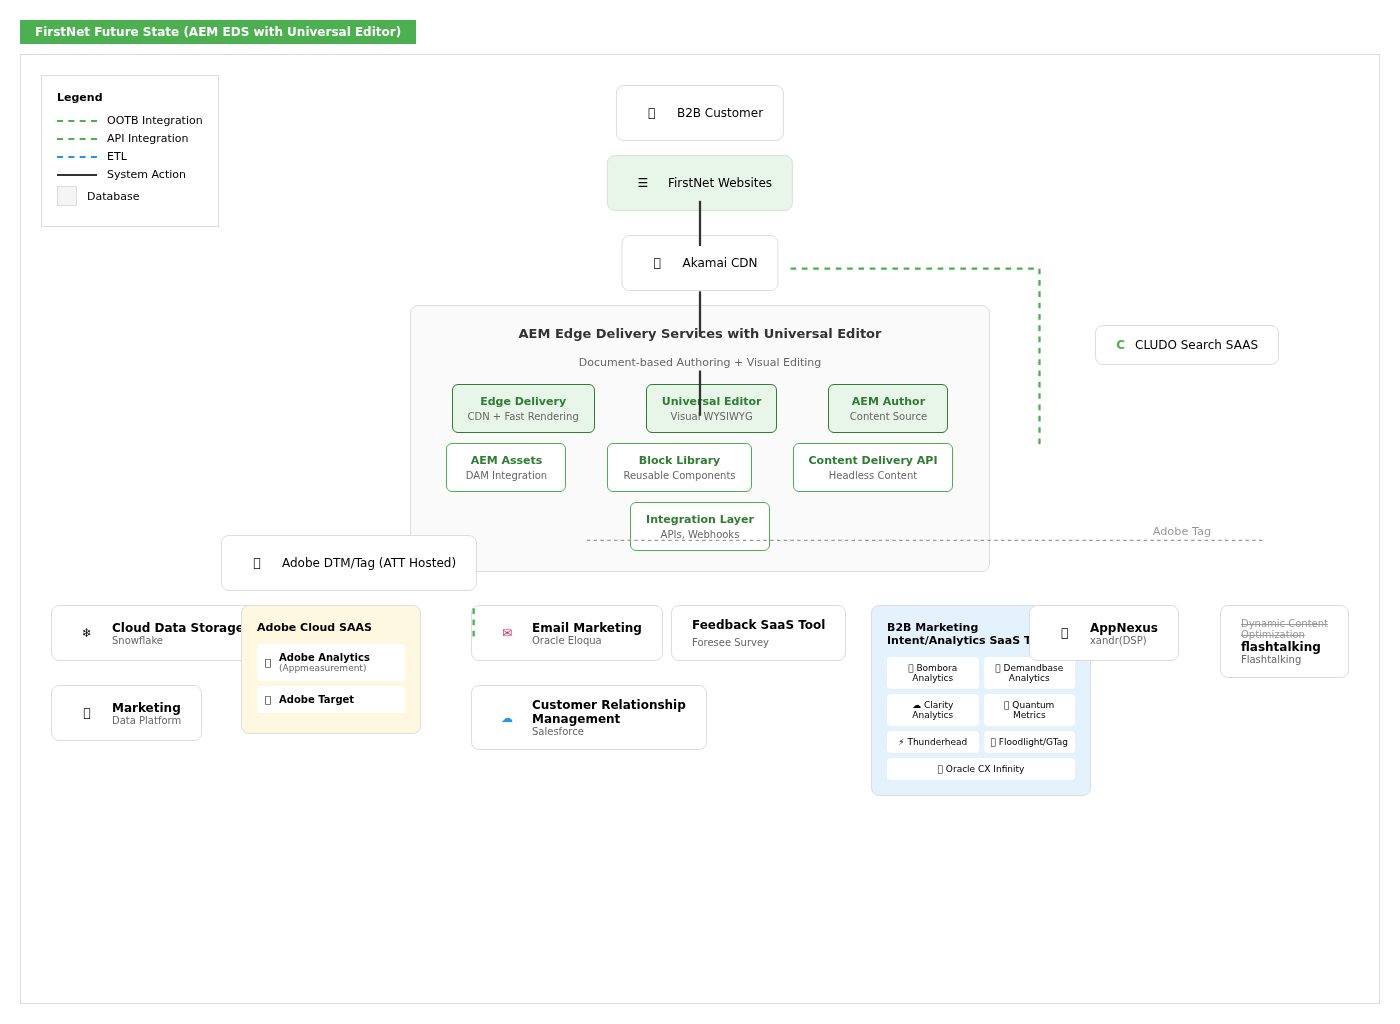
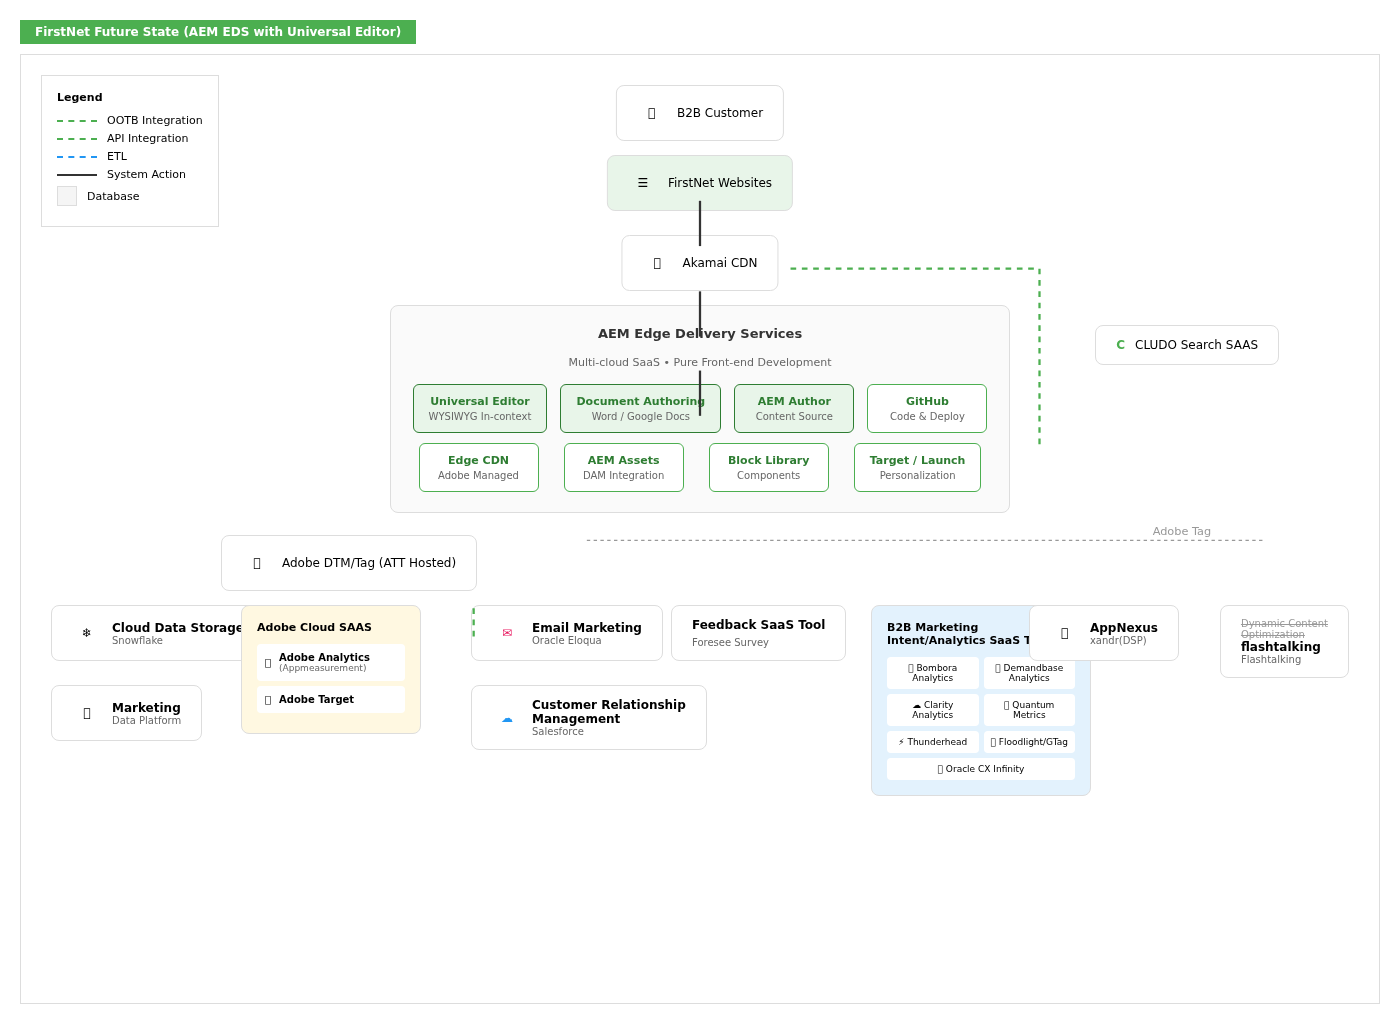
Refine EDS architecture based on Adobe documentation
Updated components per experienceleague.adobe.com/edge-delivery/overview:
- Universal Editor (WYSIWYG In-context)
- Document Authoring (Word/Google Docs)
- AEM Author (Content Source)
- GitHub (Code & Deploy)
- Edge CDN (Adobe Managed)
- AEM Assets (DAM Integration)
- Block Library (Components)
- Target/Launch (Personalization)

Subtitle: Multi-cloud SaaS • Pure Front-end Development

🤖 Generated with [Claude Code](https://claude.com/claude-code)

Changed region(s): [[0.3071, 0.3125, 0.7064, 0.4688], [0.4607, 0.5, 0.5529, 0.5312]]

diff --git a/firstnet-future-state-architecture.html b/firstnet-future-state-architecture.html
@@ -78,7 +78,7 @@
       border-radius: 8px;
       padding: 20px;
       background: #FAFAFA;
-      width: 580px;
+      width: 620px;
     }
     .aem-eds-title {
       font-weight: bold;
@@ -234,20 +234,28 @@
 
     <!-- AEM EDS Container (REPLACED SECTION) -->
     <div class="aem-eds-container">
-      <div class="aem-eds-title">AEM Edge Delivery Services with Universal Editor</div>
-      <div class="aem-eds-subtitle">Document-based Authoring + Visual Editing</div>
+      <div class="aem-eds-title">AEM Edge Delivery Services</div>
+      <div class="aem-eds-subtitle">Multi-cloud SaaS • Pure Front-end Development</div>
       <div class="eds-components">
         <div class="eds-box highlight">
-          <div class="eds-box-title">Edge Delivery</div>
-          <div class="eds-box-desc">CDN + Fast Rendering</div>
+          <div class="eds-box-title">Universal Editor</div>
+          <div class="eds-box-desc">WYSIWYG In-context</div>
         </div>
         <div class="eds-box highlight">
-          <div class="eds-box-title">Universal Editor</div>
-          <div class="eds-box-desc">Visual WYSIWYG</div>
+          <div class="eds-box-title">Document Authoring</div>
+          <div class="eds-box-desc">Word / Google Docs</div>
         </div>
         <div class="eds-box highlight">
           <div class="eds-box-title">AEM Author</div>
           <div class="eds-box-desc">Content Source</div>
+        </div>
+        <div class="eds-box">
+          <div class="eds-box-title">GitHub</div>
+          <div class="eds-box-desc">Code & Deploy</div>
+        </div>
+        <div class="eds-box">
+          <div class="eds-box-title">Edge CDN</div>
+          <div class="eds-box-desc">Adobe Managed</div>
         </div>
         <div class="eds-box">
           <div class="eds-box-title">AEM Assets</div>
@@ -255,15 +263,11 @@
         </div>
         <div class="eds-box">
           <div class="eds-box-title">Block Library</div>
-          <div class="eds-box-desc">Reusable Components</div>
+          <div class="eds-box-desc">Components</div>
         </div>
         <div class="eds-box">
-          <div class="eds-box-title">Content Delivery API</div>
-          <div class="eds-box-desc">Headless Content</div>
-        </div>
-        <div class="eds-box">
-          <div class="eds-box-title">Integration Layer</div>
-          <div class="eds-box-desc">APIs, Webhooks</div>
+          <div class="eds-box-title">Target / Launch</div>
+          <div class="eds-box-desc">Personalization</div>
         </div>
       </div>
     </div>
